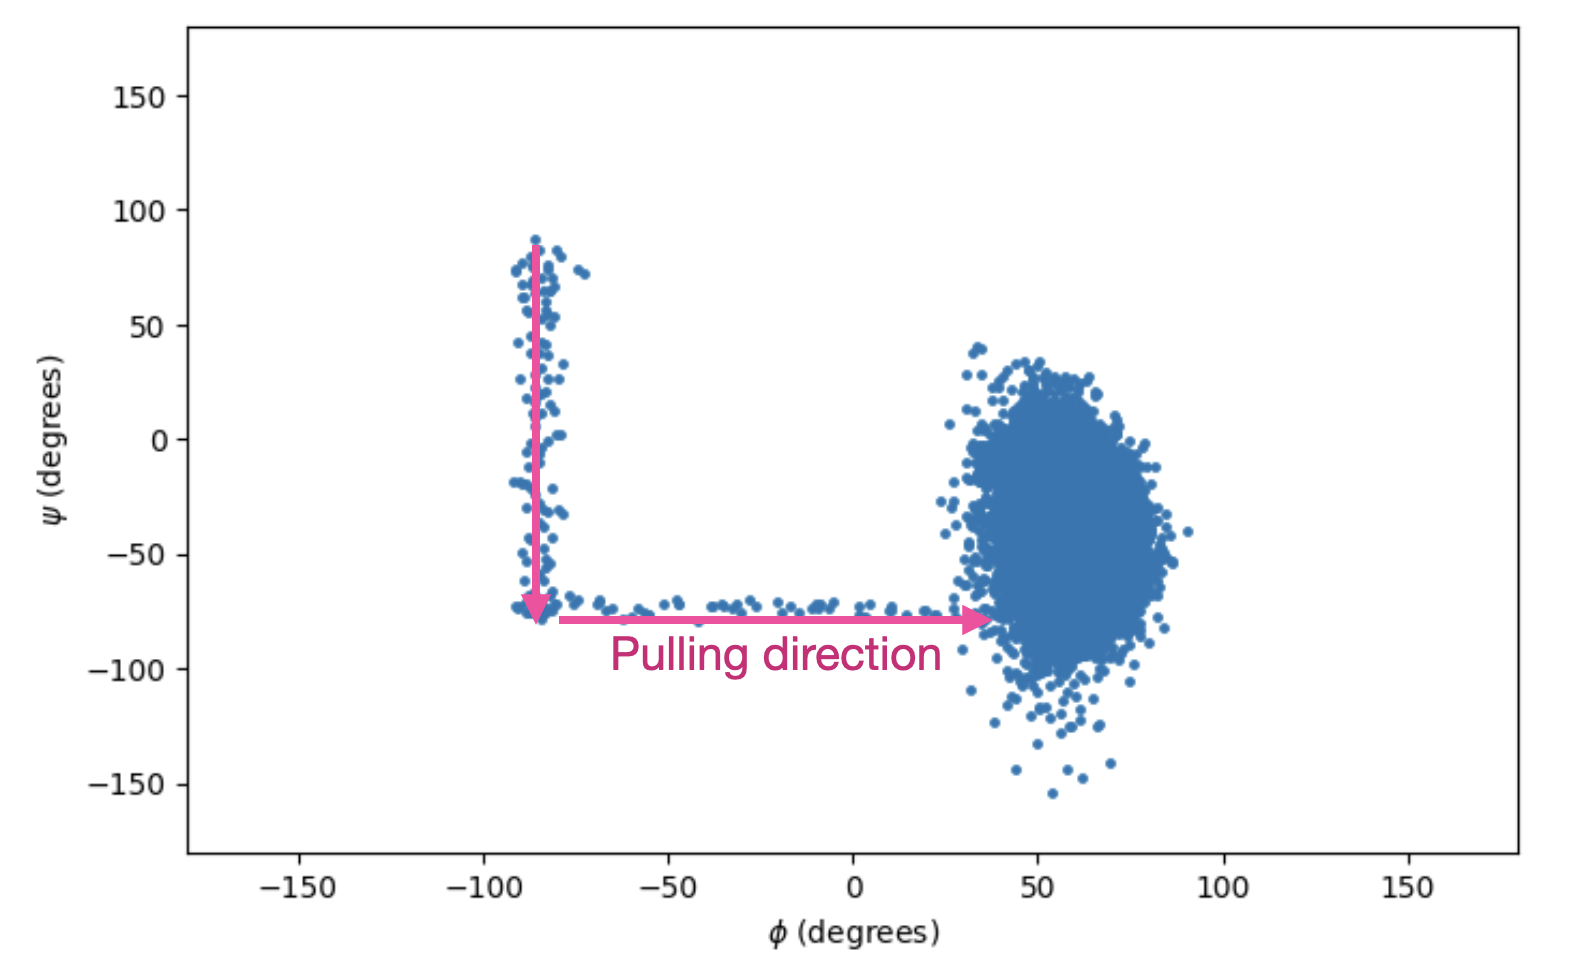
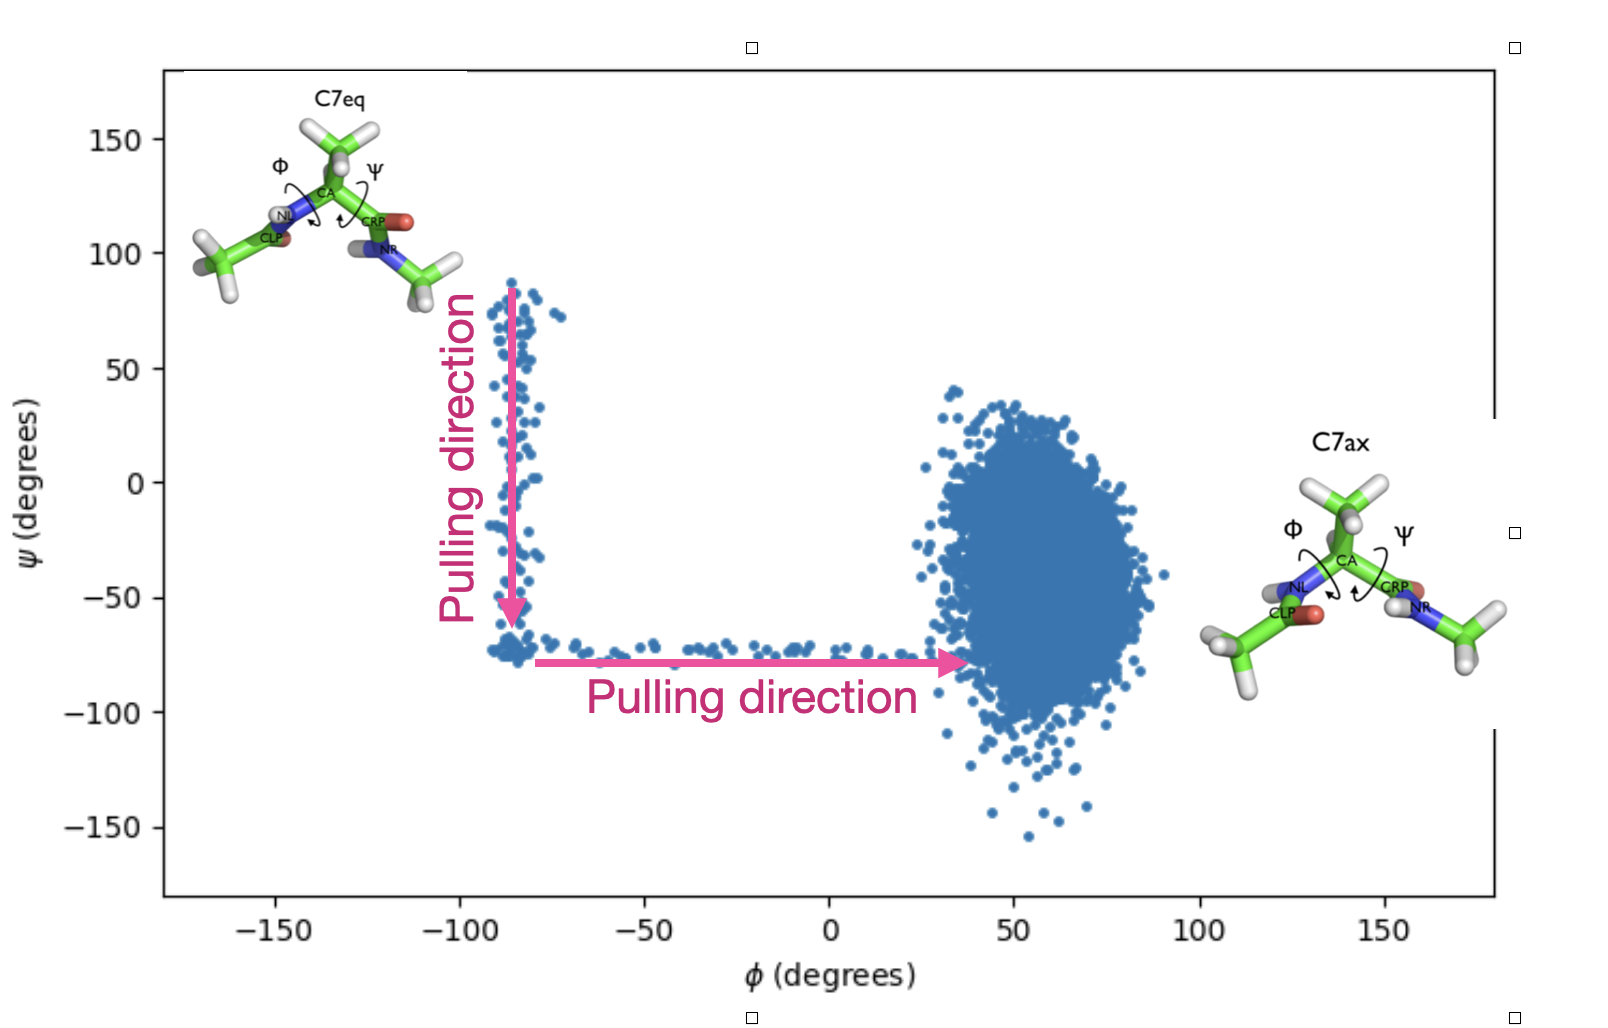
added tareted MD

diff --git a/day2/restraints/restraints.md b/day2/restraints/restraints.md
@@ -227,9 +227,105 @@ We visualize this on a 2-D Ramachandran plot where each point is a frame from th
 
 ![Figure_pulling](../../images/Figure_pulling_phi_Ramachandran.png)
 
-  
+### Pulling along a more complex path
 
-## (Optional) Umbrella Sampling in PLUME
+Sometimes it is useful to use a moving restraint to schedule a sequence of events. For example, you can use a MOVINGRESTAINT to drive multiple collective variables at the same time in specific points and also to stop for a while in specificregions using a fixed harmonic potential. 
 
+In `plumed_example4.dat` we set up a MOVINGRESTRAINT to go from the C7eq state vertically toward $$\phi=−1.5$$ rad;$$\psi=−1.3$$ rad. We then stop at this intermediate state for a while, then move toward $$\phi=1.3$$;$$\psi=−1.3$$ rad which corresponds to C7ax.
 
+{% highlight git %}
+# set up two variables for Phi and Psi dihedral angles 
+phi: TORSION ATOMS=5,7,9,15
+psi: TORSION ATOMS=7,9,15,17
 
+# Here we set up a moving restraint 
+restraint: ...
+        MOVINGRESTRAINT
+        ARG=phi,psi
+        AT0=-1.5,1.3  STEP0=0      KAPPA0=0,0
+        AT1=-1.5,1.3  STEP1=2000   KAPPA1=1000,1000
+        AT2=-1.5,-1.3 STEP2=10000   KAPPA2=1000,1000
+        AT3=-1.5,-1.3 STEP3=12000   KAPPA3=1000,1000
+        AT4=1.3,-1.3  STEP4=20000   KAPPA4=1000,1000
+        AT5=1.3,-1.3  STEP5=24000   KAPPA5=0,0
+...
+
+# Print output
+PRINT FILE=dihedrals_moving_restraint_v2.dat ARG=phi,psi,restraint.bias STRIDE=100
+{% endhighlight %}
+
+Notice in the input for this example, we have two arguments for the moving restraint (separated by comma, no spaces between arguments!) and correspondingly two KAPPA values - one for each variable.
+
+Run this example using:
+
+{% highlight git %}
+gmx mdrun -v -deffnm run1 -plumed plumed_example4.dat -nt 1
+{% endhighlight %}
+
+The output file here will be called `dihedrals_moving_restraint_v2.dat`. See if you can use the same plotting script to generate the 2-D Ramachandran plot:
+
+![2D figure version 2](../../images/Figure_pulling_v2.png)
+
+Congratulations, you have now learned how to perform Steered MD using a moving restraint. At this point you can move onto the [Biasing with Metadynamcics Tutorial](coming soon), or feel free to check out the optional extensions below.
+
+## (Optional extension) Targeted MD
+
+Targeted MD can be seen as a special case of steered MD where the RMSD from a reference structure is used as a collective variable. In this case, we use PLUMED to create a MOVINGRESTRAINT on the RMSD value to push the simulation to a target reference structure. It can be used for example if one wants to prepare the system so that the coordinates of selected atoms are as close as possible to a target pdb structure taken from an experimental structure.
+
+An example input is provided called `plumed_targetedMD.dat`: 
+
+{% highlight git %}
+# set up two variables for Phi and Psi dihedral angles
+# these variables will be just monitored to see what happens
+phi: TORSION ATOMS=5,7,9,15
+psi: TORSION ATOMS=7,9,15,17
+# define a variable that measures the RMSD from a reference pdb structure
+# the RMSD is measured after OPTIMAL alignment with the target structure
+rmsd: RMSD REFERENCE=c7ax.pdb TYPE=OPTIMAL
+# the movingrestraint
+restraint: ...
+        MOVINGRESTRAINT
+        ARG=rmsd
+        AT0=0.0 STEP0=0      KAPPA0=0
+        AT1=0.0 STEP1=__FILL__   KAPPA1=__FILL__
+...
+# monitor the two variables and various restraint outputs
+PRINT STRIDE=100 ARG=phi,psi,rmsd,restraint.bias FILE=targetedMD.dat
+{% endhighlight %}
+
+In this example, the RMSD is being calculated relative to a provided reference pdb file. Here, I have provided a pdb file called `c7ax.pdb` as a representative structure for the C7ax state. 
+
+Note that RMSD should be provided a reference structure in pdb format and can contain part of the system **but the second column (the index) must reflect the atom numbering within the full system** so that PLUMED knows specifically which atom to drag where. In this case the pdb file `c7ax.pdb` contains only the non-hydrogen, heavy atoms:
+
+{% highlight git %}
+ATOM      2  CH3 ACE     1      -3.200   1.510   1.150  1.00  1.00            
+ATOM      5  C   ALA     1      -1.930   1.410   0.410  1.00  1.00            
+ATOM      6  O   ALA     1      -1.530   2.340  -0.280  1.00  1.00            
+ATOM      7  N   ALA     1      -1.250   0.260   0.560  1.00  1.00            
+ATOM      9  CA  ALA     1       0.030  -0.060  -0.050  1.00  1.00            
+ATOM     10  HA  ALA     1       0.230  -1.090   0.200  1.00  1.00            
+ATOM     11  CB  ALA     1       0.000   0.010  -1.600  1.00  1.00            
+ATOM     15  C   ALA     1       1.210   0.710   0.560  1.00  1.00            
+ATOM     16  O   ALA     1       2.020   0.140   1.270  1.00  1.00            
+ATOM     17  N   NME     1       1.310   2.020   0.270  1.00  1.00            
+ATOM     19  CH3 NME     1       2.390   2.850   0.750  1.00  1.00            
+END
+{% endhighlight %}
+
+**Important**: Atom numbers in column 2 of the reference pdb file must match the atom numbers in column 3 of the GROMACS .gro file (alanine_dipeptide.gro) 
+
+The MOVINGRESTRAINT bias potential acts here on the rmsd, and the other two variables (phi and psi) are untouched. The RMSD action in PLUMED will perform an optimal alignment of the structure at each frame with reference structure when computing the RMSD value. 
+
+To run this example, change where it says `__FILL__` by setting the final tep to be `STEP1=5000` and `KAPPA1=10000`. When you have made these changes, run the targeted MD using:
+
+{% highlight git %}
+gmx mdrun -v -deffnm run1 -plumed plumed_targetedMD.dat -nt 1
+{% endhighlight %}
+
+The output file will be called `targetedMD.dat`. See if you can generate a 2-D Ramachandran plot such as the one shown here:
+
+![Figure_targetedMD](../../images/targeted_MD.png)
+
+Notice the moving restraint on the RMSD drove the system from the C7eq to the C7ax state. 
+
+## (Optional extension) Umbrella Sampling